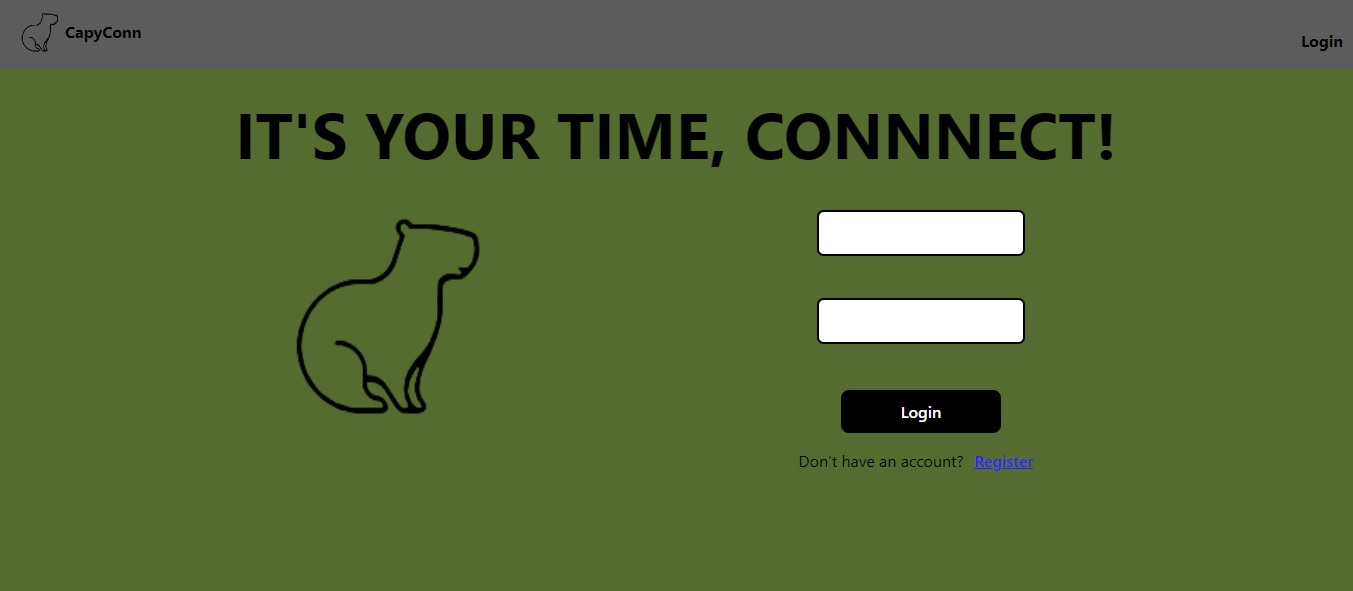
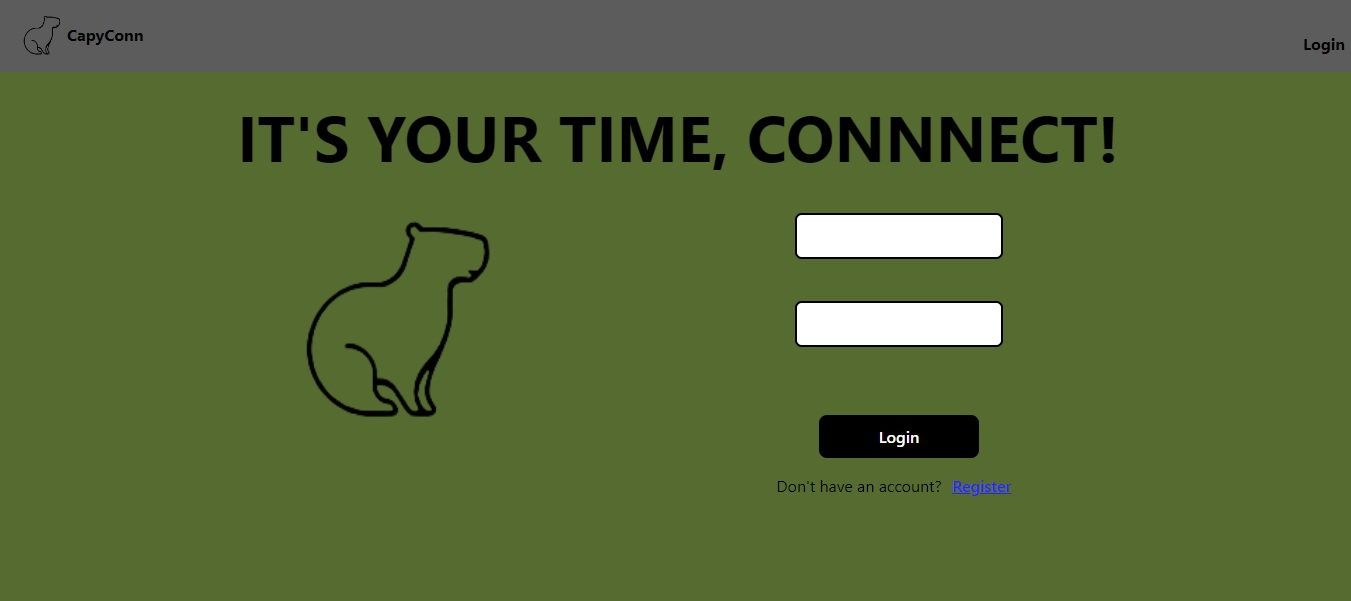
update: login inputs design

diff --git a/src/pages/Login/Login.css b/src/pages/Login/Login.css
@@ -19,11 +19,12 @@
     flex-direction: row;
     justify-content: flex-start;
     align-items: flex-start;
+
     background-color: darkolivegreen;
 }
 
 .espacio {
-    width: 15em;
+    width: 13em;
 }
 
 .capibara1 {
@@ -31,7 +32,7 @@
     width: 20em;
 
     display: flex;
-    align-items: center;
+    align-items: flex-end;
     justify-self: center;
     flex-direction: column;
 
@@ -41,33 +42,31 @@
 .capibara {
     height: 15em;
     width: 15em;
-
-
 }
 
 .text {
     height: 2em;
     width: 100%;
+    display: flex;
+    align-items: center;
+    justify-content: center;
+
     background-color: darkolivegreen;
     font-size: 4em;
     color: black;
     font-weight: bold;
-
-    display: flex;
-    align-items: center;
-    justify-content: center;
 }
 
 .inputsLogin {
-    height: 20em;
-    width: 16em;
+    height: 25em;
+    width: 21em;
 
     display: flex;
     align-items: center;
     justify-self: center;
     flex-direction: column;
-    background-color: darkolivegreen;
 
+    background-color: darkolivegreen;
 }
 
 .buttonLogin {
@@ -78,7 +77,7 @@
     align-items: center;
     justify-content: center;
 
-    margin: 1em;
+    margin: 2.4em 0 1em 0;
     background-color: black;
     color: white;
     border: 0;
